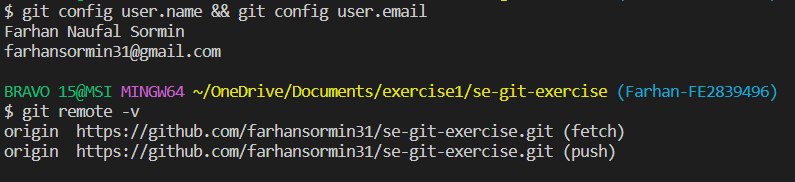
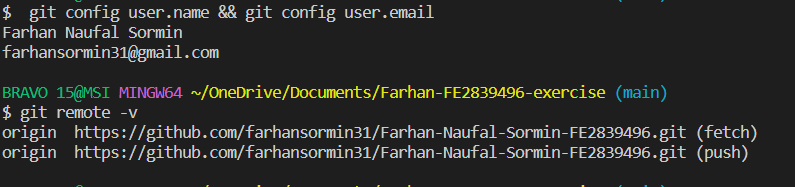
complete all taks

diff --git a/Farhan-FE2839496/git-exercise.md b/Farhan-FE2839496/git-exercise.md
@@ -894,7 +894,7 @@ Jika diperhatikan dengan `git status` kita sekarang berada pada branch `master`
 
   ![assets/repo/exercise1.png](assets/repo/exercise1.png)
 
-- url repository github _(change `url` with your public repository Github)_: [github](https://github.com/farhansormin31/se-git-exercise.git)
+- url repository github _(change `url` with your public repository Github)_: [github](https://github.com/farhansormin31/Farhan-Naufal-Sormin-FE2839496.git)
   
 Finish.
 
